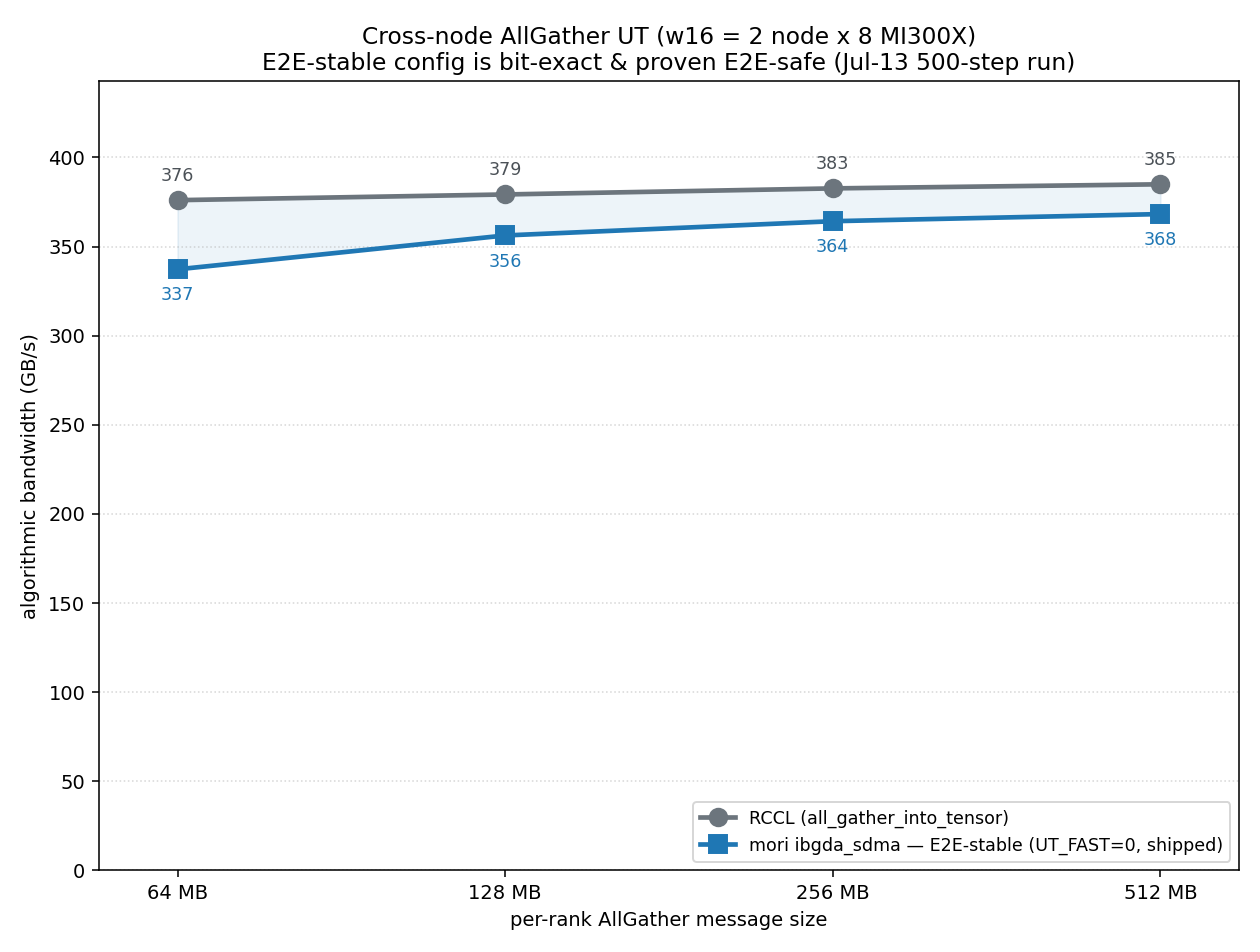
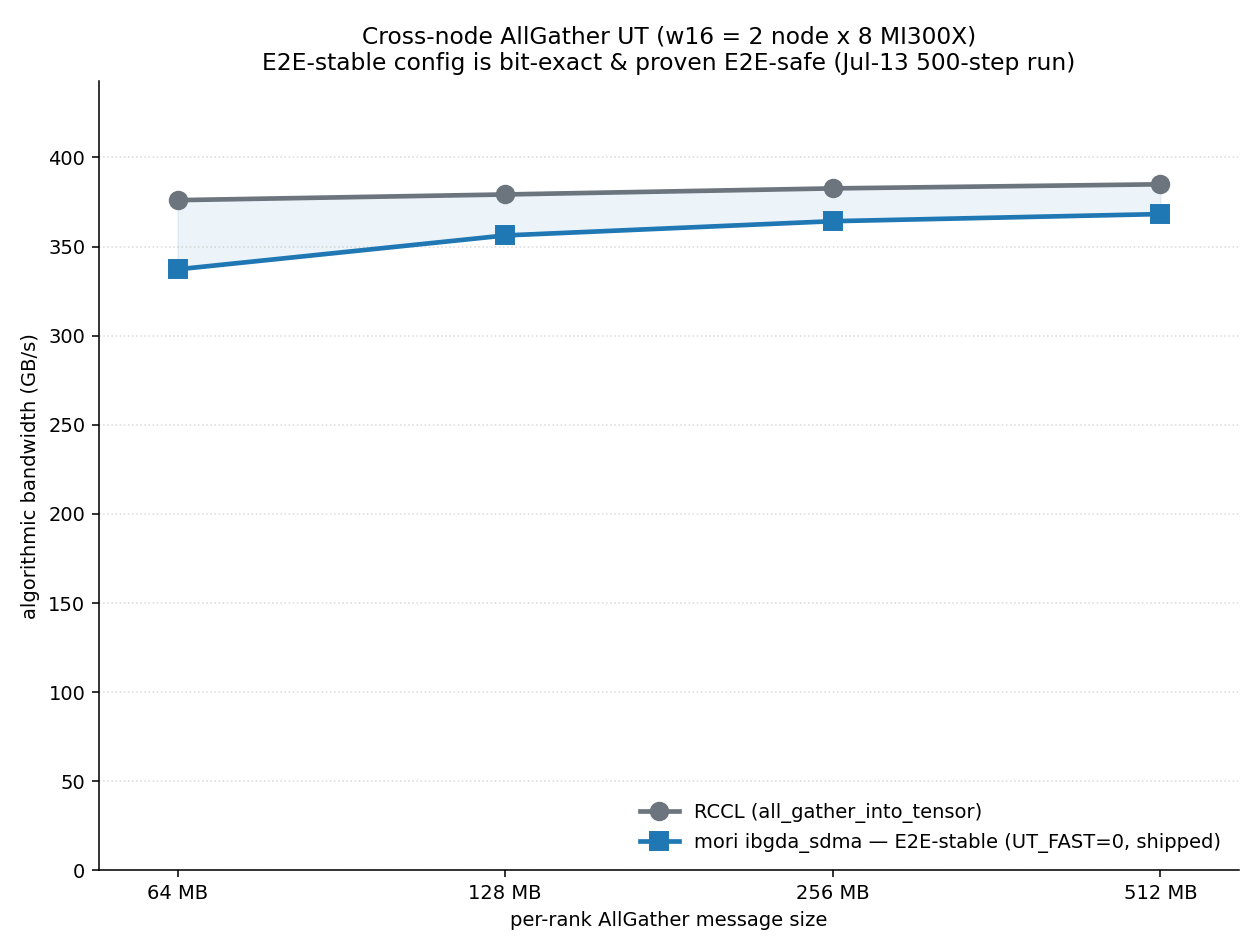
bench(ccl): drop per-point value labels on ag-perf chart (points only)
Cleaner read: just the two marker lines (RCCL vs mori E2E-stable) on the full
0-based tall axis, no inline GB/s numbers; remove top/right spines, frameless legend.

diff --git a/tests/python/ccl/plot_ag_perf.py b/tests/python/ccl/plot_ag_perf.py
@@ -62,24 +62,20 @@ def main():
     # subtle band between the two curves
     ax.fill_between(x, rccl, mori_e2e, color="#1f77b4", alpha=0.08, zorder=0)
 
-    for i in range(len(sizes)):
-        ax.annotate(f"{rccl[i]:.0f}", (i, rccl[i]), textcoords="offset points",
-                    xytext=(0, 10), ha="center", fontsize=9, color="#4b5157")
-        ax.annotate(f"{mori_e2e[i]:.0f}", (i, mori_e2e[i]), textcoords="offset points",
-                    xytext=(0, -16), ha="center", fontsize=9, color="#1f77b4")
-
     ax.set_xticks(x)
     ax.set_xticklabels([f"{s} MB" for s in sizes])
     ax.set_ylabel("algorithmic bandwidth (GB/s)")
     ax.set_xlabel("per-rank AllGather message size")
     ax.set_title("Cross-node AllGather UT (w16 = 2 node x 8 MI300X)\n"
                  "E2E-stable config is bit-exact & proven E2E-safe (Jul-13 500-step run)")
-    ax.legend(fontsize=9, loc="lower right")
+    ax.legend(fontsize=10, loc="lower right", frameon=False)
     # full range from 0 with a tall axis: the ~20-40 GB/s gap reads as a small
     # fraction of the scale (the two curves track close together).
     ax.set_ylim(0, max(rccl) * 1.15)
     ax.margins(x=0.08)
-    ax.grid(axis="y", ls=":", alpha=0.5)
+    ax.grid(axis="y", ls=":", alpha=0.45)
+    ax.spines["top"].set_visible(False)
+    ax.spines["right"].set_visible(False)
     fig.tight_layout()
 
     png = os.path.join(RES, "ag_perf_e2e_stable_w16.png")